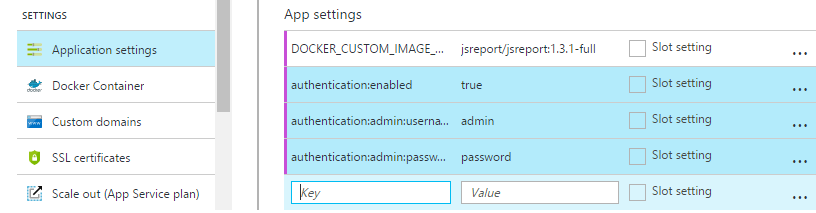
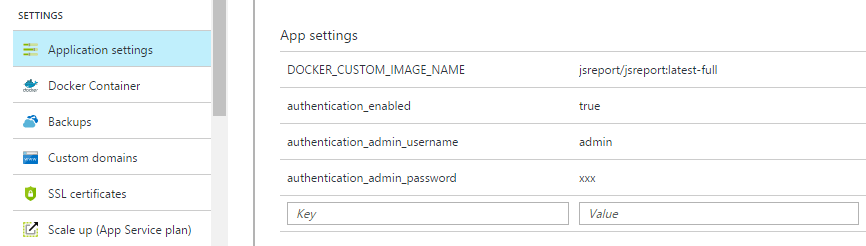
update nested env path

diff --git a/_posts/render-reports-using-azure-app-service.md b/_posts/render-reports-using-azure-app-service.md
@@ -13,14 +13,14 @@ The first you need to open azure portal and create the linux app service.
 ![azure linux](https://jsreport.net/blog/azure-linux.png)
 
 
-The next you have to switch the app service container to docker hub and pick up the image from the [jsreport docker hub repository](https://hub.docker.com/r/jsreport/jsreport). Lets pick `jsreport/jsreport:1.3.1-full` for this tutorial.
+The next you have to switch the app service container to docker hub and pick up the image from the [jsreport docker hub repository](https://hub.docker.com/r/jsreport/jsreport). Lets pick `jsreport/jsreport:latest-full` for this tutorial.
 
 
-![azure linux](https://jsreport.net/blog/azure-docker.png)
+![azure linux](https://jsreport.net/blog/azure-docker.png?v=3)
 
 Finally you wait a minute until the service is created and open it in the browser. The jsreport studio pops up and you can start to play with it. 
 
-![studio](https://jsreport.net/screenshots/studio.png?v=1)
+![studio](https://jsreport.net/screenshots/studio.png?v=2)
 
 ##Configure jsreport 
 
@@ -29,11 +29,12 @@ Later you may need to configure jsreport. The easiest way is to use the environm
 Lets enable [jsreport authentication](https://jsreport.net/learn/authentication) for example by setting the following variables
 
 ```
-authentication:enabled=true
-authentication:admin:password=xxx
+authentication_enabled=true
+authentication_admin_username=admin
+authentication_admin_password=xxx
 ```
 
-![azure config](https://jsreport.net/blog/azure-config.png)
+![azure config](https://jsreport.net/blog/azure-config.png?v=3)
 
 Wait couple of seconds to propagate the change into the service and refresh the jsreport studio. You should see the login screen.
 
@@ -45,16 +46,16 @@ You would soon realize that the stored templates are lost if you restart the app
 
 Now you should create the sql database and copy paste its connection string.
 
-![azure sql](https://jsreport.net/blog/azure-sql.png)
+![azure sql](https://jsreport.net/blog/azure-sql.png?v=2)
 
 Now you need to paste the connection string as environment variable and configure jsreport to use it. Note you should only paste the part of the connection string like on the following example.
 ```
-connectionString:name=mssql
-connectionString:uri=Server=tcp:jsreport-test.database.windows.net,1433;Initial Catalog=test;Persist Security Info=False;User ID=jsreport;Password=xxx;MultipleActiveResultSets=False;Encrypt=True;
+connectionString_name=mssql
+connectionString_uri=Server=tcp:jsreport-test.database.windows.net,1433;Initial Catalog=test;Persist Security Info=False;User ID=jsreport;Password=xxx;MultipleActiveResultSets=False;Encrypt=True;
 ```
 
 
-![azure connection](https://jsreport.net/blog/azure-connection.png)
+![azure connection](https://jsreport.net/blog/azure-connection.png?v=2)
 
 That is it. The service should now automatically apply the settings and your templates will be stored inside the sql database.
 
